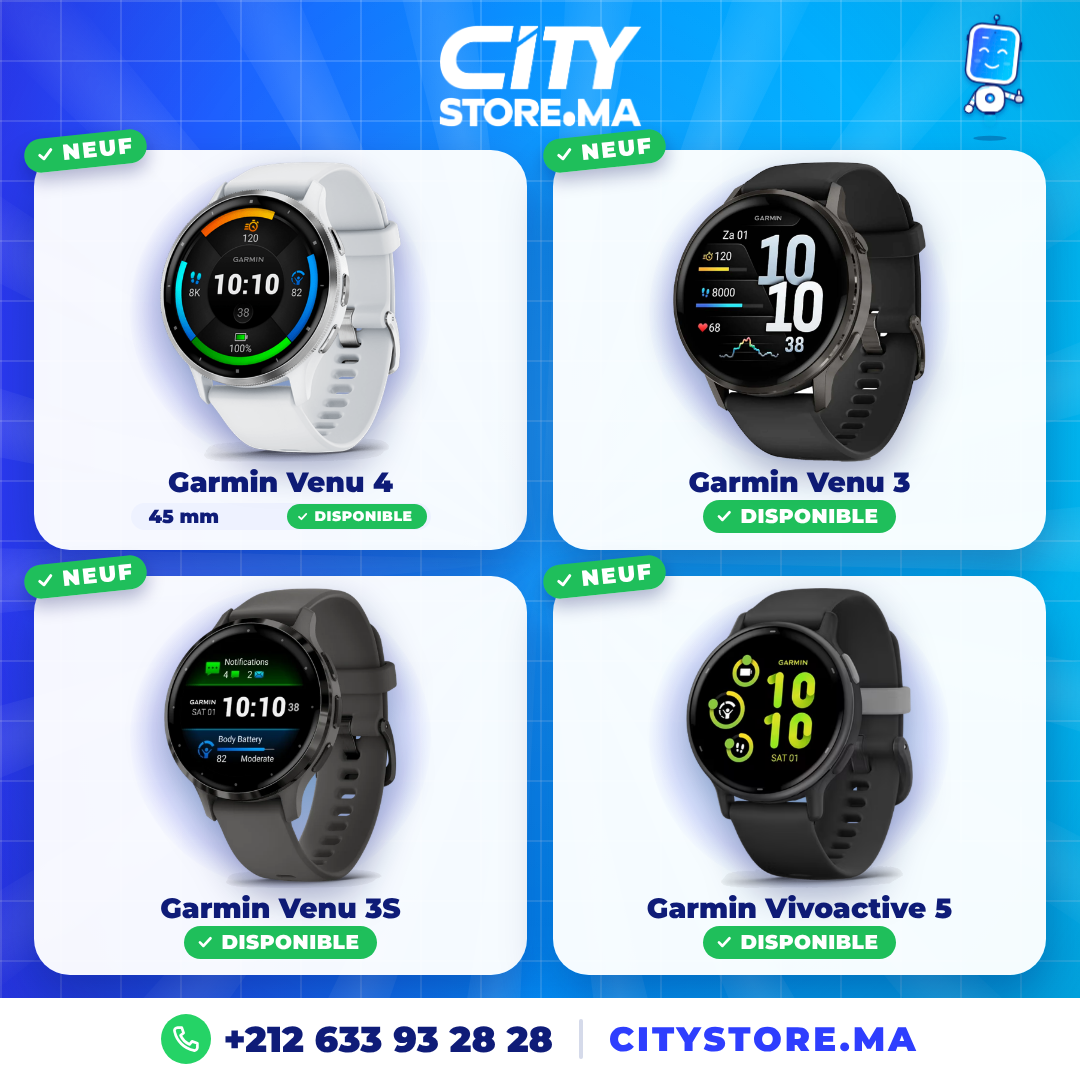
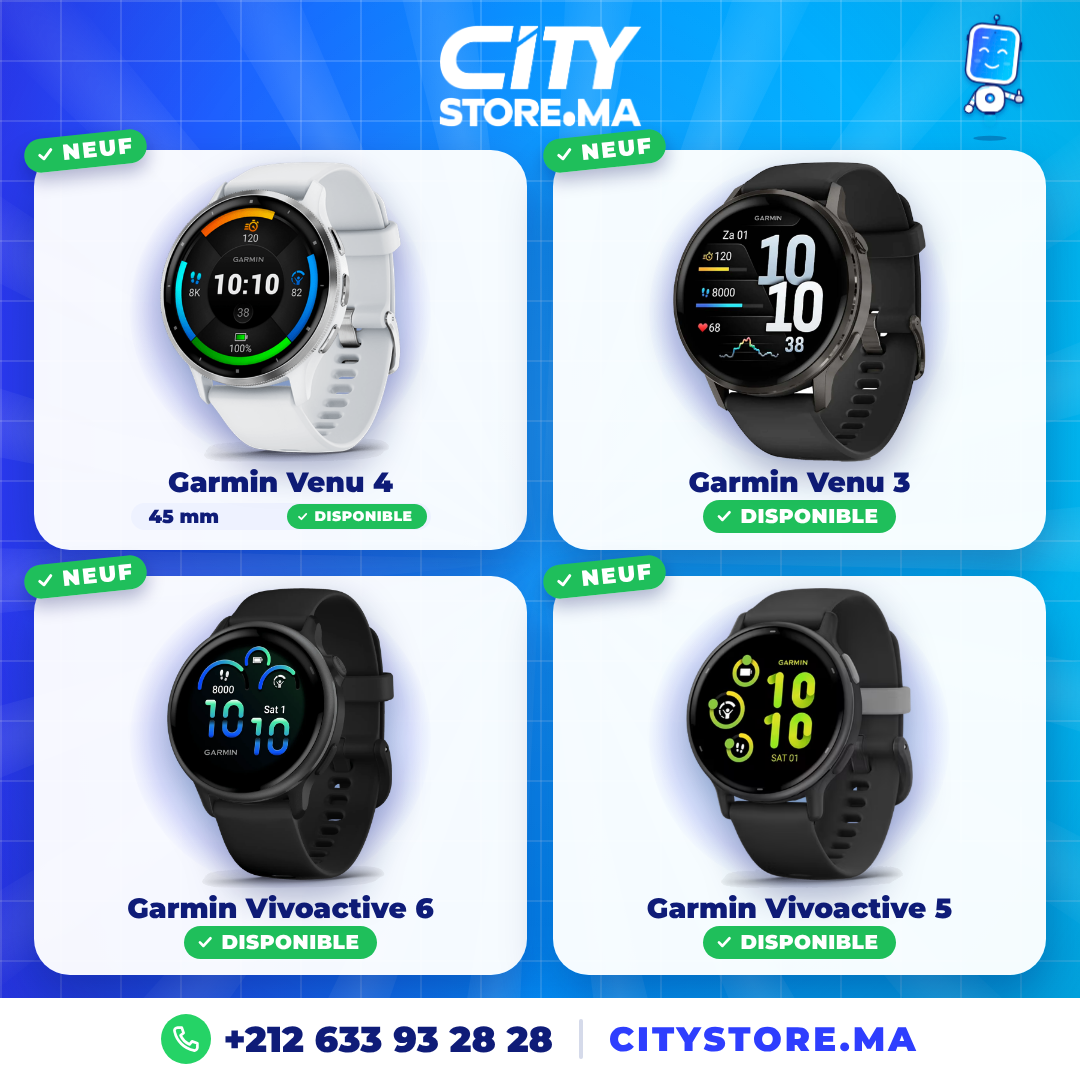
Garmin: Vivoactive 6 takes the Venu 3S slot; its old slot left empty (product to come)
Claude-Session: https://claude.ai/code/session_01B6UvVnyVQqoyQ1GwELGaCV

Changed region(s): [[0.1222, 0.5194, 0.3972, 0.8556]]

diff --git a/src/pricelist/PriceList.tsx b/src/pricelist/PriceList.tsx
@@ -22,6 +22,8 @@ export type PriceItem = {
   spec?: string; // e.g. "256 Go · Batterie 87 %"
   /** availability list (e.g. storage sizes): switches to the side-by-side card, one "DISPONIBLE" chip per entry */
   stock?: string[];
+  /** empty slot: keeps its place in the grid, nothing drawn (product to come) */
+  empty?: boolean;
   /** image scale tweak inside its slot (1 = fit) */
   scale?: number;
   rotate?: number;
@@ -170,7 +172,7 @@ export const PriceList: React.FC<PriceListProps> = ({ title, subtitle, items, ph
       {/* products */}
       <div style={{ position: "absolute", top: gridTop, left: 0, right: 0, display: "flex", flexWrap: "wrap", justifyContent: "center", columnGap: gapX, rowGap: gapY }}>
         {items.slice(0, 8).map((it, i) => (
-          it.stock ? <StockCard key={i} it={it} w={w} h={h} maxRows={maxRows} center={photoCenter} specRow={specRow} /> : <Card key={i} it={it} w={w} h={h} />
+          it.empty ? <div key={i} style={{ width: w, height: h }} /> : it.stock ? <StockCard key={i} it={it} w={w} h={h} maxRows={maxRows} center={photoCenter} specRow={specRow} /> : <Card key={i} it={it} w={w} h={h} />
         ))}
       </div>
       {/* how to order */}
@@ -221,7 +223,7 @@ export const PriceListSquare: React.FC<PriceListProps> = ({ items, photoCenter, 
         <Citybot id="pricelistsq" width={92} expression="happy" mouth="smile" tilt={6} rightArm={{ rot: 72, hand: "thumb" }} leftArm={{ rot: 30, hand: "open" }} hover={4} />
       </div>
       <div style={{ position: "absolute", top, left: 34, right: 34, display: "flex", flexWrap: "wrap", justifyContent: "center", columnGap: gapX, rowGap: gapY }}>
-        {four.map((it, i) => <StockCard key={i} it={it} w={w} h={h} maxRows={maxRows} center={photoCenter} specRow={specRow} compact />)}
+        {four.map((it, i) => it.empty ? <div key={i} style={{ width: w, height: h }} /> : <StockCard key={i} it={it} w={w} h={h} maxRows={maxRows} center={photoCenter} specRow={specRow} compact />)}
       </div>
       <div style={{ position: "absolute", bottom: 0, left: 0, right: 0, height: 82, background: "#fff", display: "flex", alignItems: "center", justifyContent: "center", gap: 26 }}>
         <div style={{ display: "flex", alignItems: "center", gap: 12 }}>

diff --git a/src/pricelist/lists.ts b/src/pricelist/lists.ts
@@ -78,9 +78,10 @@ export const PRICE_LISTS: Record<string, PriceListProps> = {
     items: [
       { name: "Garmin Venu 4", img: "pricelist/garmin/venu4.png", stock: ["45 mm"] },
       { name: "Garmin Venu 3", img: "pricelist/garmin/venu3.png", stock: [""] },
-      { name: "Garmin Venu 3S", img: "pricelist/garmin/venu3s.png", stock: [""] },
-      { name: "Garmin Vivoactive 5", img: "pricelist/garmin/vivoactive5.png", stock: [""] },
       { name: "Garmin Vivoactive 6", img: "pricelist/garmin/vivoactive6.png", stock: [""] },
+      { name: "Garmin Vivoactive 5", img: "pricelist/garmin/vivoactive5.png", stock: [""] },
+      // empty slot (Venu 3S removed; product to come)
+      { name: "", img: "", empty: true },
       { name: "Garmin Forerunner 165", img: "pricelist/garmin/forerunner165.png", stock: [""] },
       { name: "Garmin Fēnix 8", img: "pricelist/garmin/fenix8.png", stock: ["47 mm"] },
       { name: "Garmin Forerunner 55", img: "pricelist/garmin/forerunner55.png", stock: [""] },
@@ -135,10 +136,10 @@ export const SQUARE_LISTS: Record<string, PriceListProps> = {
   watches: pick("watches", [0, 3, 1, 5]), // Ultra 4, Series 11, Ultra 3, SE 3 (Ultra 2 and Series 10 left out)
   macbooks: pick("macbooks", [0, 1, 2, 3]), // Pro M5 14, Pro M4 14, Air M4 13.6, Air M4 15 (Air M3 and Neo left out)
   samsung: pick("samsung", [0, 2, 3, 4]), // S26 Ultra, S26, A57, A56 (S25 Ultra and A36 left out)
-  garmin: pick("garmin", [0, 1, 2, 3]), // Venu 4, Venu 3, Venu 3S, Vivoactive 5
+  garmin: pick("garmin", [0, 1, 2, 3]), // Venu 4, Venu 3, Vivoactive 6, Vivoactive 5
   rayban: pick("rayban", [0, 1, 2, 3]), // all four
   readers: pick("readers", [0, 1, 2, 3]), // all four
   djimic: pick("djimic", [0, 1, 2, 3]), // all four
   pencils: pick("pencils", [0, 1, 2, 3]), // all four
-  garmin2: pick("garmin", [4, 5, 6, 7]), // Vivoactive 6, Forerunner 165, Fēnix 8, Forerunner 55
+  garmin2: pick("garmin", [4, 5, 6, 7]), // (empty slot), Forerunner 165, Fēnix 8, Forerunner 55
 };
